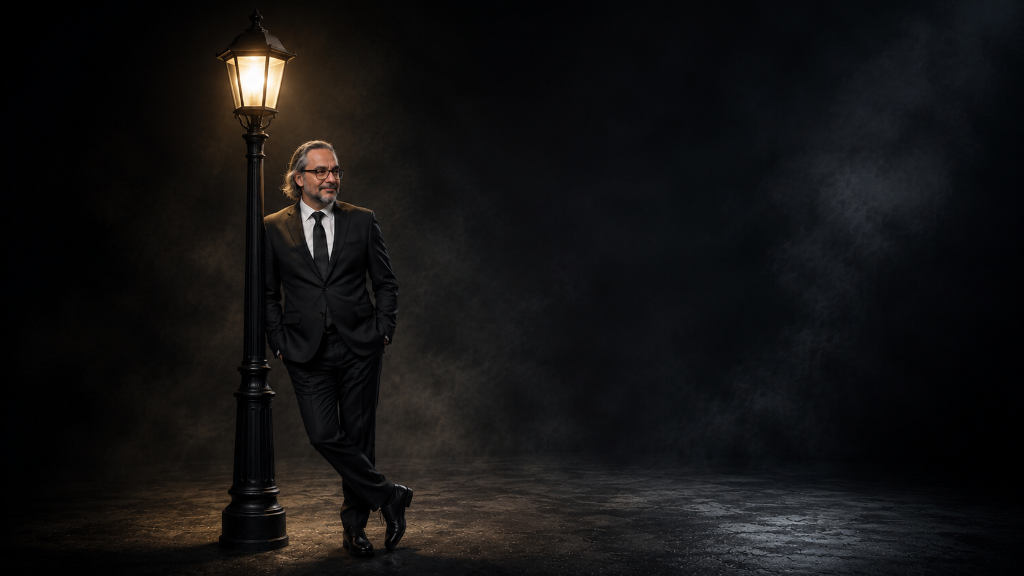
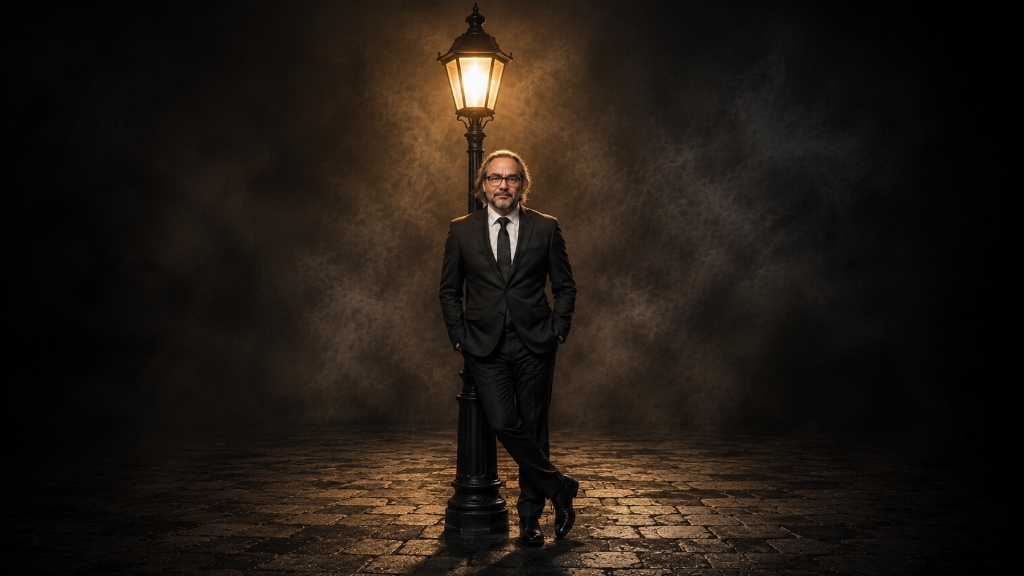
feat: replace hero-lamp.png with perfectly centered version and update golden neon lamp light coordinates to top 13.5% and left 46.1%

diff --git a/src/components/HeroSection.tsx b/src/components/HeroSection.tsx
@@ -231,10 +231,10 @@ export const HeroSection: React.FC<HeroSectionProps> = ({ isHovered, setIsHovere
                 }`}
                 style={{
                   // Sokak lambasının ampul koordinatı (görselin 16:9 oranındaki ampul yerine hizalanmış)
-                  top: '19.5%',
-                  left: '76.8%',
-                  width: '6.5%',
-                  height: '11.5%',
+                  top: '13.5%',
+                  left: '46.1%',
+                  width: '7.8%',
+                  height: '13.5%',
                   background: 'radial-gradient(circle, rgba(254,240,138,1) 0%, rgba(234,179,8,0.7) 45%, rgba(202,138,4,0.3) 70%, transparent 100%)',
                   borderRadius: '50%',
                   mixBlendMode: 'screen',
